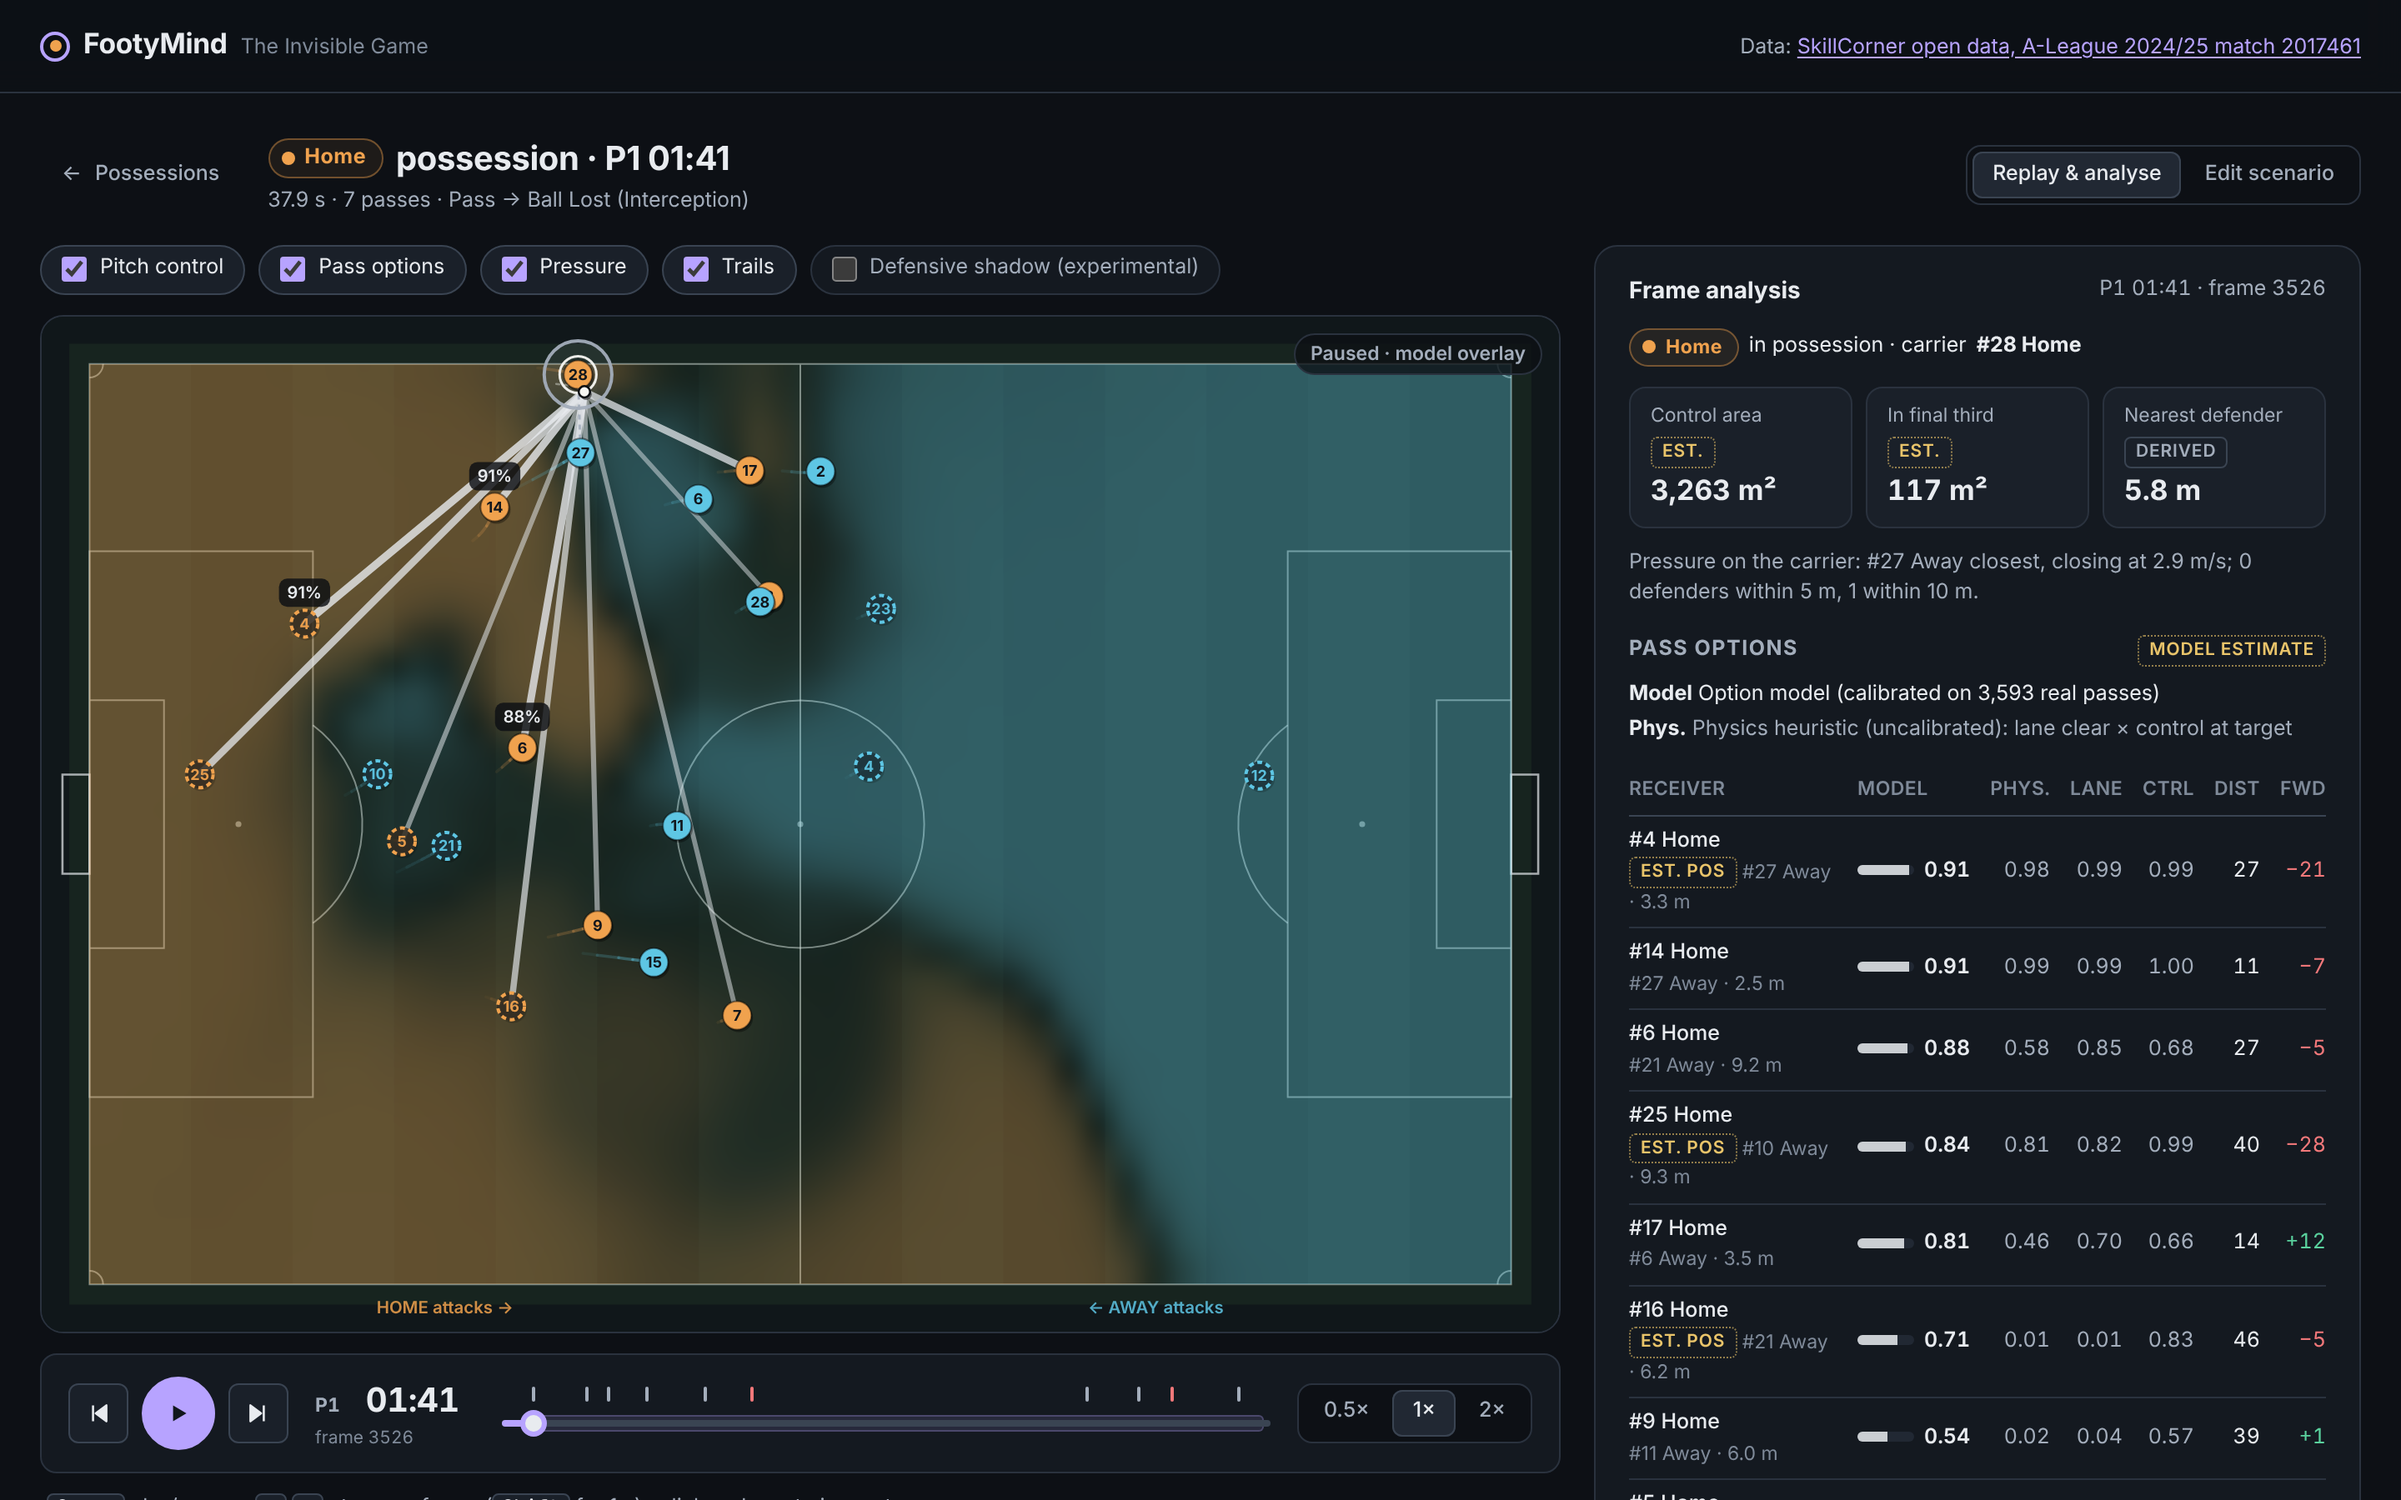
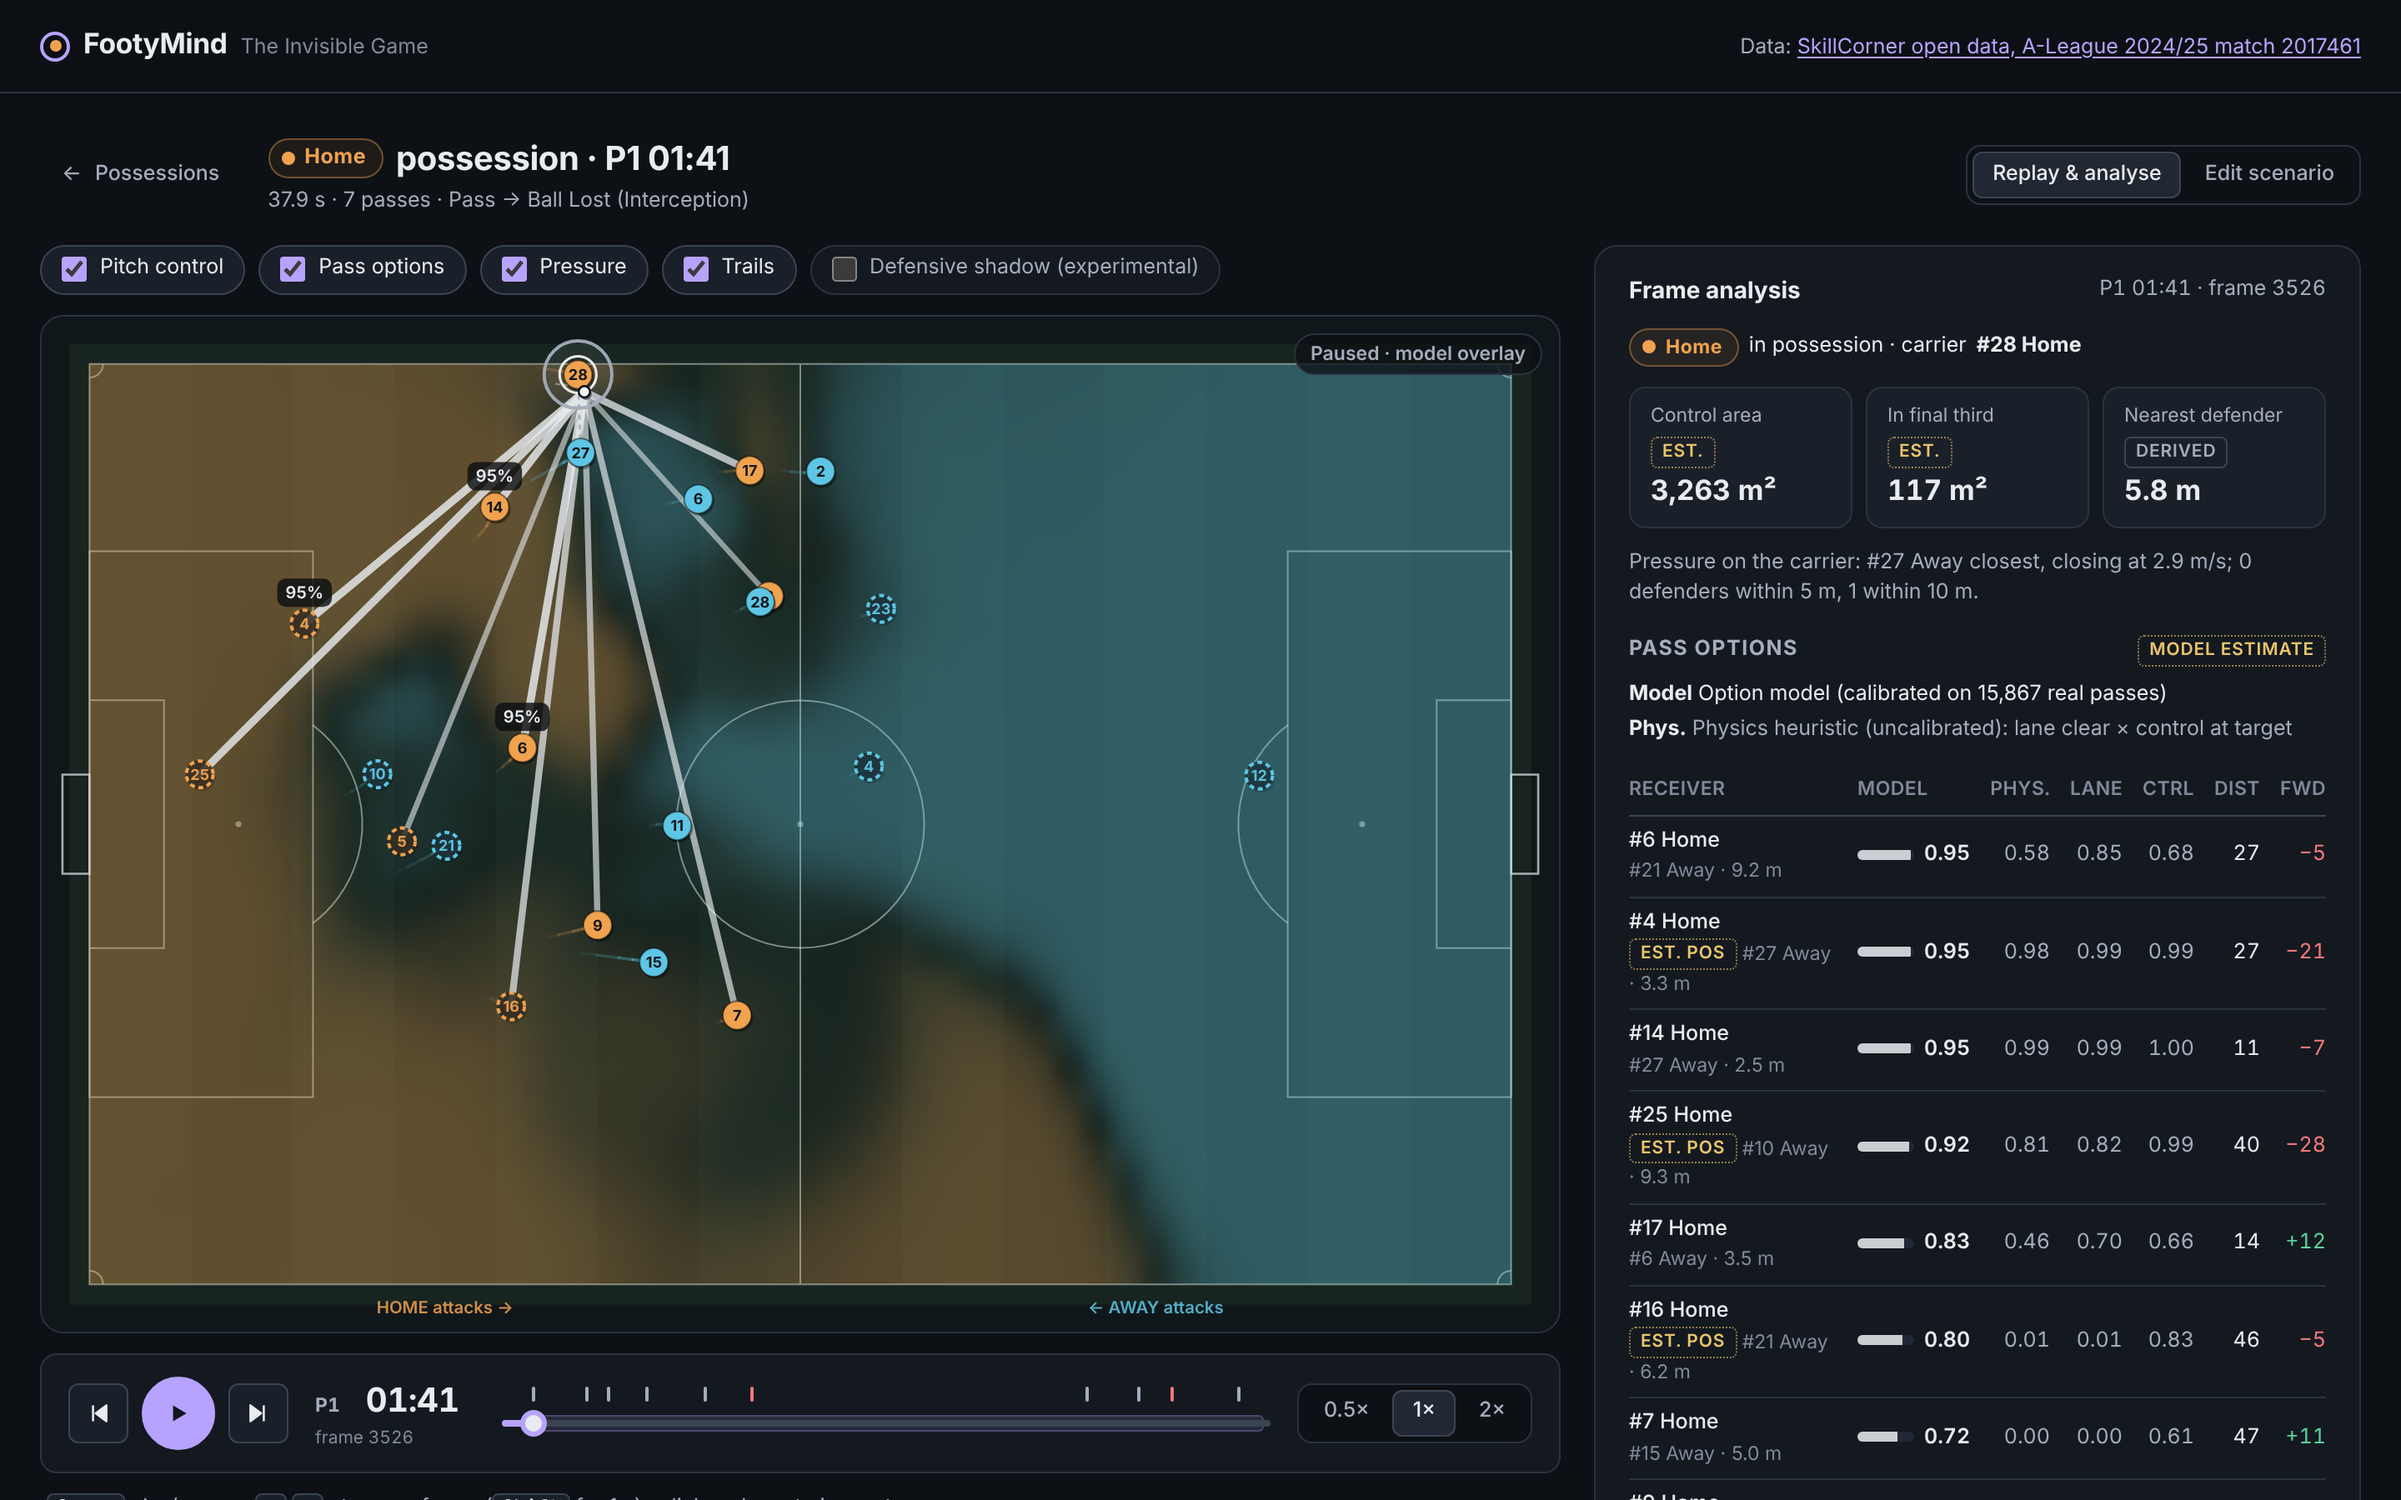
Refresh screenshots against provider-specific option models; show broadcast provenance view in README

diff --git a/README.md b/README.md
@@ -18,6 +18,8 @@ observed state, and reported with its sensitivity to the model's assumptions.
 
 ![Possession Multiverse: a moved player (hypothetical), the marker's rule-based response (simulated), and the pitch-control difference](web/screenshots/scenario-difference-desktop.png)
 
+![Broadcast tracking (SkillCorner): off-camera players are provider extrapolations, drawn hollow and labelled as estimates](web/screenshots/broadcast-estimated-desktop.png)
+
 ## What is in here
 
 | Capability | What it does | Status |
